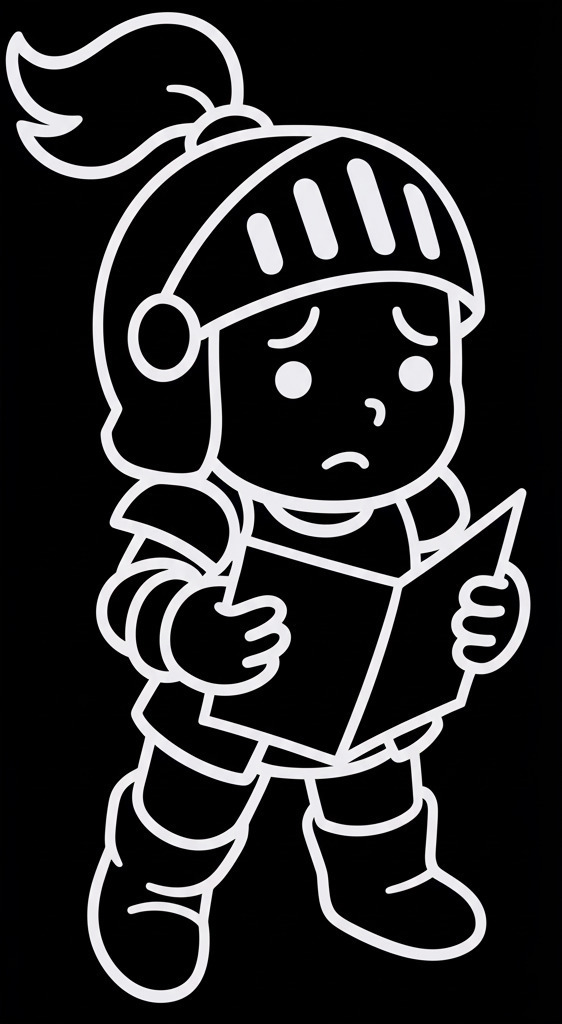
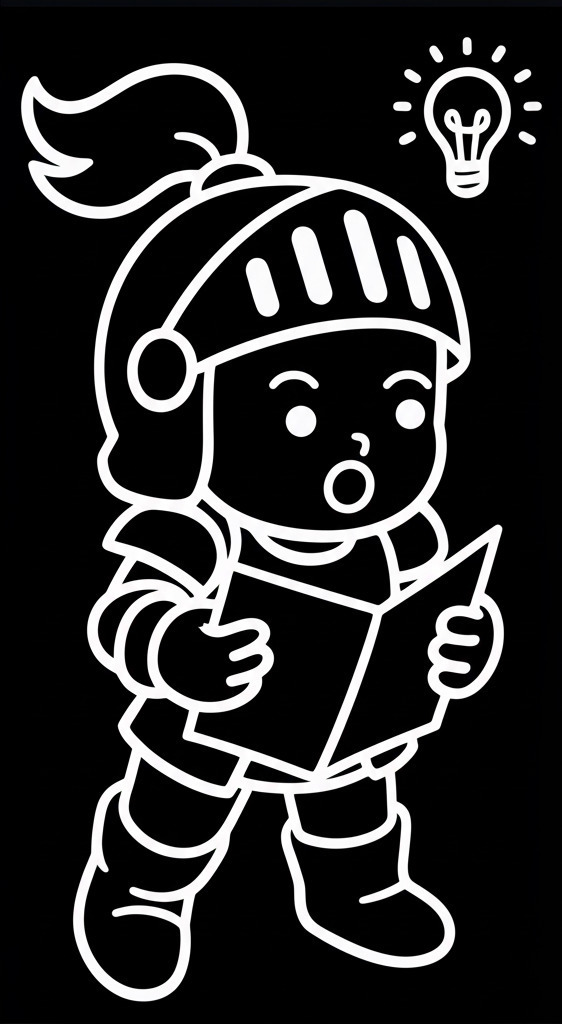
시나리오 별 이미지 삽입

Changed region(s): [[0.0, 0.0, 0.968, 1.0]]

diff --git a/BB.html b/BB.html
@@ -30,20 +30,32 @@
       <!-- 시나리오 전개 오프닝 화면 -->
       <section id="intro">
         <button id="skip-btn">Skip</button>
+        <div id="intro-image0" class="fade-image visible"></div>
         <div id="press">빠른 전개는 "space"키를 눌러 확인 가능합니다.</div>
+        <img id="intro-image1" src="image/Intro1.jpg" class="fade-image visible" alt="image1">
         <p data-text="옛날 옛적부터 지옥의 검을 지키는 가업을 수행하는 형제가 있었다."></p>
+        <img id="intro-image2" src="image/Intro2.jpg" class="fade-image" alt="image2">
         <p data-text="지옥의 검은 막강한 힘을 자랑하지만 그와 동시에 사람을 난폭하게 만드는 아주 위험한 검이다."></p>
+        <img id="intro-image3" src="image/Intro3.jpg" class="fade-image" alt="image3">
         <p data-text="형과 동생은 현재는 봉인된 검의 힘에 대해서 느껴본 바는 없었다만 서로 생각하는 부분은 달랐다."></p>
+        <img id="intro-image4" src="image/Intro4.jpg" class="fade-image" alt="image4">
         <p data-text="형은 오로지 검을 개방해서는 안된다는 생각을 가지고 있었고 반면 동생은 검을 사용하고자 갈망하고 있었다."></p>
+        <img id="intro-image5" src="image/Intro5.jpg" class="fade-image" alt="image5">
         <p data-text="검에 대한 호기심과 강력한 힘에 대한 갈망에 형이 자리를 비운 사이 동생이 검 강탈을 시도하는데..."></p>
+        <img id="intro-image6" src="image/Intro6.jpg" class="fade-image" alt="image6">
         <p data-text="검을 훔친 동생은 막강한 힘을 누리는 듯 싶더니..."></p>
+        <img id="intro-image7" src="image/Intro7.jpg" class="fade-image" alt="image7">
         <p data-text="결국 힘을 주체하지 못하고 밖으로 뛰쳐나가버린다."></p>
+        <img id="intro-image8" src="image/Intro8.jpg" class="fade-image" alt="image8">
         <p data-text="뒤늦게 이를 알아차린 형은 동생을 지키기 위해 그리고 가업을 마저 수행하기 위해 검을 찾으러 나선다."></p>
+        <img id="intro-image9" src="image/Intro9.jpg" class="fade-image" alt="image9">
         <p data-text="&quot;동생 성격이라면 분명 검의 성능을 테스트하러 우리 마을을 수호하는 기사들이 모여있는 성으로 갔을거야!&quot;"></p>
       </section>
 
       <!-- 시나리오 전개 엔딩 화면 -->
-      <section id="epilogue"></section>
+      <section id="epilogue">
+
+      </section>
 
       <!-- 난이도 선택 화면 -->
       <section id="select-level">

diff --git a/BB.js b/BB.js
@@ -40,6 +40,9 @@ function pageLoad(){
   let currentElement = null;
   let waitTimeout = null;
 
+  let currentImageIndex = 0;
+  const totalImages = 9;
+
   function typeText(element, text, speed = 50, callback) {
     let idx = 0;
     isTyping = true;
@@ -71,6 +74,7 @@ function pageLoad(){
 
     const p = introParagraphs[currentIndex];
     const text = p.getAttribute("data-text");
+    showNextImage();
 
     typeText(p, text, 50, () => {
       // 10초 기다렸다가 다음 문장
@@ -92,6 +96,12 @@ function pageLoad(){
         clearTimeout(currentTimeout);
         currentElement.textContent = currentText;
         isTyping = false;
+
+        waitTimeout = setTimeout(() => {
+          if (currentElement) currentElement.style.display = "none";
+          currentIndex++;
+          showNextParagraph();
+        }, 10000);
       } else {
         // 타이핑이 끝났고 기다리는 중이면 즉시 다음 문장으로
         clearTimeout(waitTimeout);
@@ -102,7 +112,33 @@ function pageLoad(){
     }
   });
 
-  // 시작
+  async function showImage(i) {
+    let prevImage = document.getElementById("intro-image" + currentImageIndex);
+    let nextImage = document.getElementById("intro-image" + i);
+
+    // 페이드 아웃
+    prevImage.classList.remove("visible");
+
+    await delay(200);
+
+    // 페이드 인
+    nextImage.classList.add("visible");
+
+    currentImageIndex = i;
+  }
+
+  function showNextImage() {
+    let nextImageIndex = currentImageIndex + 1;
+    if (nextImageIndex > totalImages) nextImageIndex = 1;
+
+    showImage(nextImageIndex);
+  }
+
+  function delay(ms) {
+    return new Promise(resolve => setTimeout(resolve, ms));
+  }
+
+  document.getElementById("intro-image1").classList.add("visible");
   showNextParagraph();
 }
 

diff --git a/BB.css b/BB.css
@@ -18,7 +18,6 @@ body{
 	display: none;
 }
 
-
 /*헤더 영역(메인메뉴 타이틀)*/
 .header{
 	margin: 100px auto 100px auto;
@@ -171,4 +170,89 @@ body{
 	font-family: "IBM Plex Sans KR", sans-serif;
 	top: 22px;
 	right: 20px;
+}
+
+.fade-image {
+	position: absolute;
+	opacity: 0;
+	transition: opacity 0.5s;
+	width: 100%;
+	height: auto;
+}
+
+.visible {
+	opacity: 1;
+	z-index: 1;
+}
+#intro-image1 {
+	position: absolute;
+	top: 74px;
+	left: 50%;
+	transform: translateX(-50%);
+	width: 800px;
+	height: 500px;
+}
+#intro-image2 {
+	position: absolute;
+	top: 74px;
+	left: 50%;
+	transform: translateX(-50%);
+	width: 300px;
+	height: 500px;
+}
+#intro-image3 {
+	position: absolute;
+	top: 74px;
+	left: 50%;
+	transform: translateX(-50%);
+	width: 280px;
+	height: 500px;
+}
+#intro-image4 {
+	position: absolute;
+	top: 74px;
+	left: 50%;
+	transform: translateX(-50%);
+	width: 900px;
+	height: 500px;
+}
+#intro-image5 {
+	position: absolute;
+	top: 114px;
+	left: 50%;
+	transform: translateX(-50%);
+	width: 730px;
+	height: 430px;
+}
+#intro-image6 {
+	position: absolute;
+	top: 114px;
+	left: 50%;
+	transform: translateX(-50%);
+	width: 320px;
+	height: 420px;
+}
+#intro-image7 {
+	position: absolute;
+	top: 74px;
+	left: 50%;
+	transform: translateX(-50%);
+	width: 460px;
+	height: 530px;
+}
+#intro-image8 {
+	position: absolute;
+	top: 64px;
+	left: 50%;
+	transform: translateX(-50%);
+	width: 520px;
+	height: 540px;
+}
+#intro-image9 {
+	position: absolute;
+	top: 94px;
+	left: 50%;
+	transform: translateX(-50%);
+	width: 290px;
+	height: 500px;
 }
